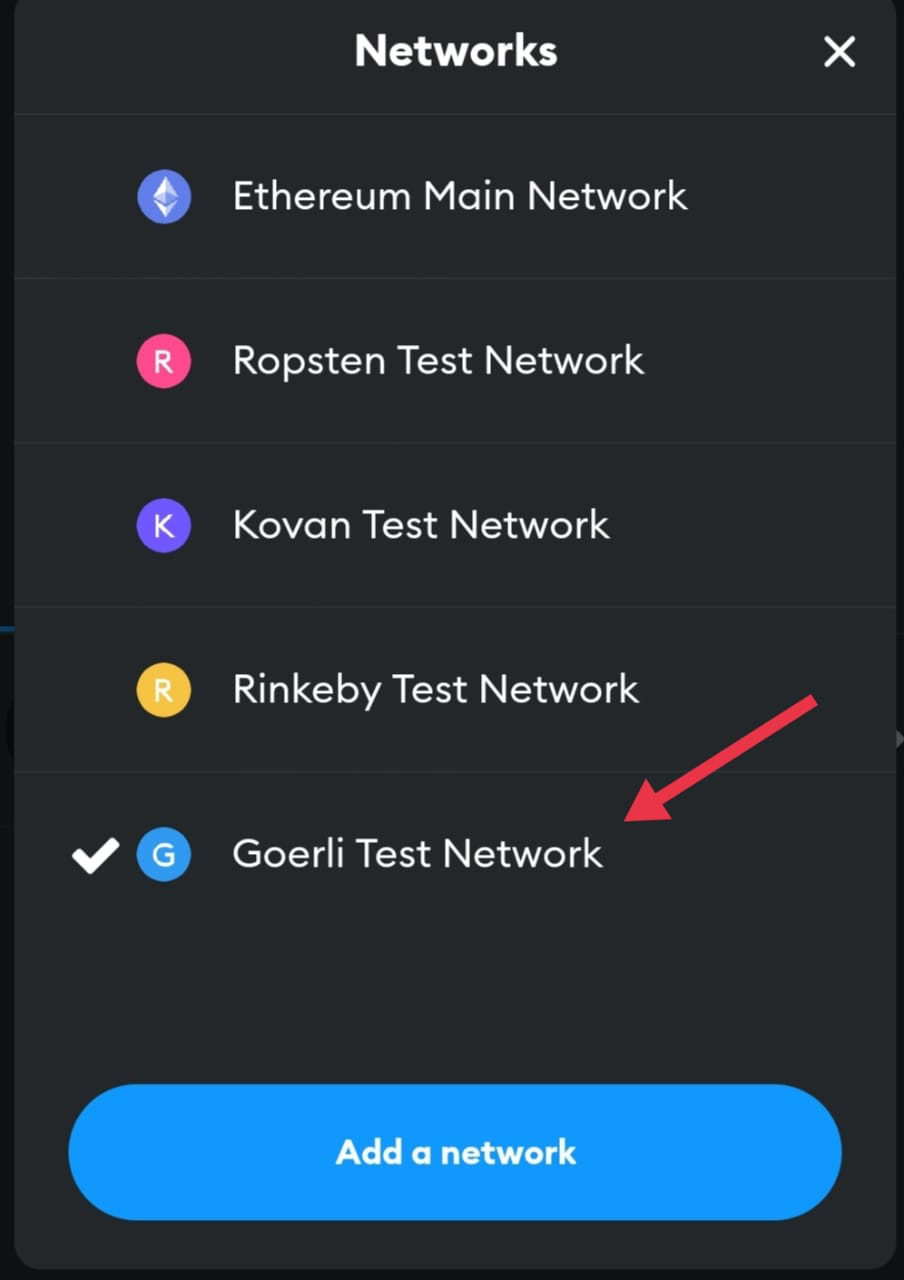
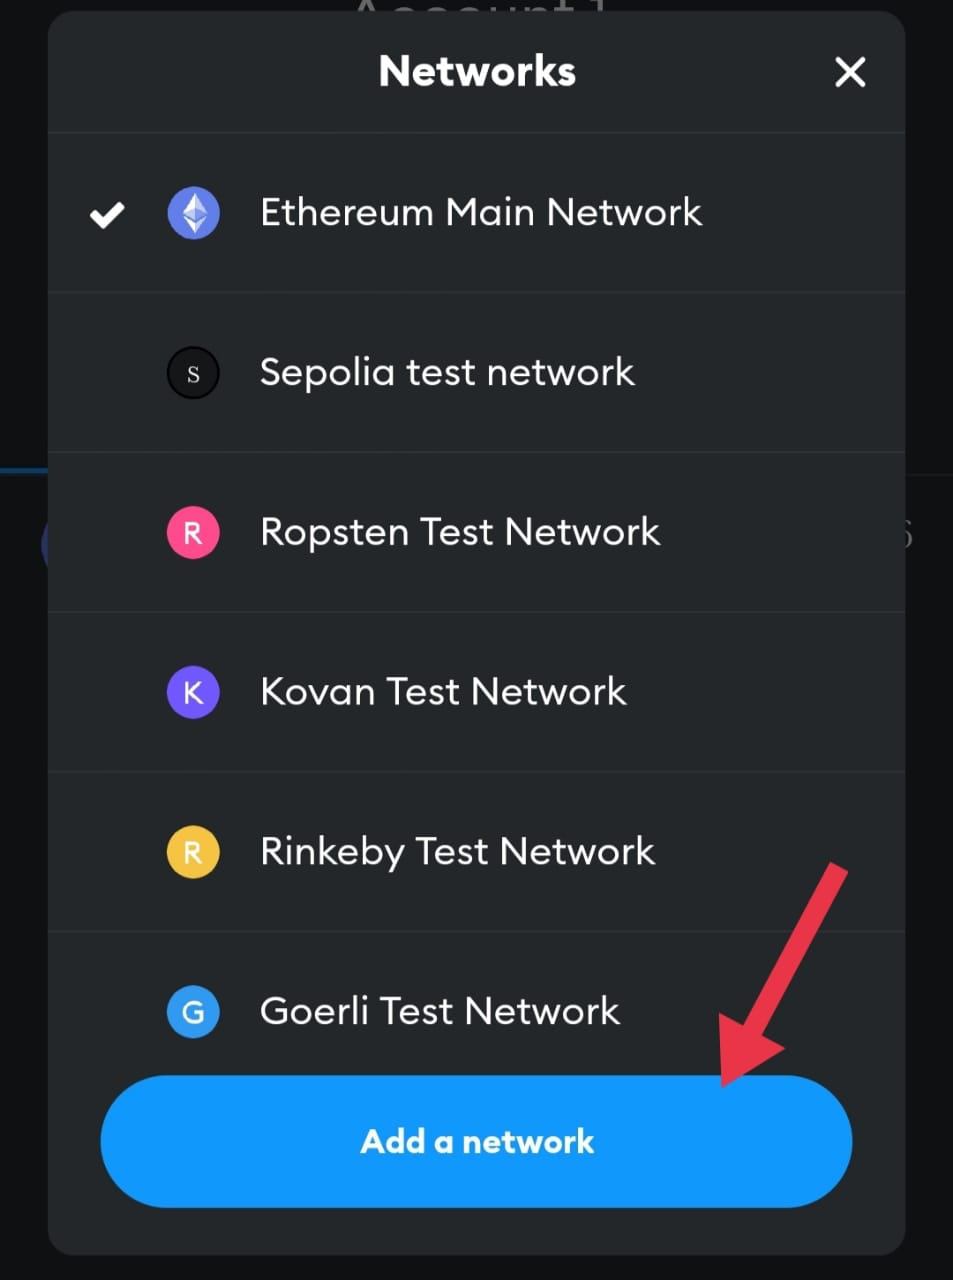
Updated Testnet

diff --git a/lib/view/authentication/smart_address_contract.dart b/lib/view/authentication/smart_address_contract.dart
@@ -106,7 +106,7 @@ class _SmartContractAddressState extends State<SmartContractAddress> {
                     ),
                     SizedBox(height: 1.h,),
                      const Text(
-                      "3. Please change the Ethereum Main Network to Goerli Test Network by click the option on the top",
+                      "3. Please change the Ethereum Main Network to Sepolia Test Network by click the option on the top and click Add Network",
                         textAlign: TextAlign.justify,
                         style: TextStyle(
                         fontWeight: FontWeight.w500,
@@ -120,9 +120,25 @@ class _SmartContractAddressState extends State<SmartContractAddress> {
                       width: 70.w,
                       scale: 2,               
                     ),
+                       SizedBox(height: 1.5.h,), 
+                      const SelectableText(
+                      "4. At the Custom Networks section, please fill this form : \n Network Name - Sepolia test network \n New RPC URL - https://sepolia.infura.io/v3/a16a56f42e774895b94db13a6342829e \n Chain ID - 11155111 \n Currency Symbol - SepoliaETH \n Block explorer URL - https://sepolia.etherscan.io/",
+                        
+                        style: TextStyle(
+                        fontWeight: FontWeight.w500,
+                        fontSize: 16,
+                        fontFamily: 'Poppins',
+                        ),
+                     ),
+                      SizedBox(height: 1.h,),  
+                      Image.asset(
+                      "assets/import_token_9.png",
+                      width: 70.w,
+                      scale: 2,               
+                    ),
                       SizedBox(height: 1.h,),  
                       const Text(
-                      "4. You can see the test network has successfully changed to Goerli.",
+                      "4. You can see the test network has successfully changed to Sepolia.",
                         textAlign: TextAlign.justify,
                         style: TextStyle(
                         fontWeight: FontWeight.w500,
@@ -130,6 +146,14 @@ class _SmartContractAddressState extends State<SmartContractAddress> {
                         fontFamily: 'Poppins',
                         ),
                      ),
+              
+             
+                      Image.asset(
+                      "assets/import_token_9.png",
+                      width: 50.w,
+                      scale: 2,
+                      height: 50.h,
+                    ),
                      SizedBox(height: 1.h,),  
                       Image.asset(
                       "assets/import_token_4.png",
@@ -168,7 +192,7 @@ class _SmartContractAddressState extends State<SmartContractAddress> {
                       mainAxisAlignment: MainAxisAlignment.center,
                       children: [
                      Text(
-                     "0xB5e5...90ec",
+                     "0xac60...b413",
                         textAlign: TextAlign.justify,
                         style: TextStyle(
                         fontWeight: FontWeight.bold,

diff --git a/lib/view/students/reward.dart b/lib/view/students/reward.dart
@@ -141,7 +141,7 @@ class _RewardTokenState extends State<RewardToken> {
                 child: Column(
                   children: [
                     Text(
-                    "Not Enough GoerliETH?",
+                    "Not Enough SepoliaETH?",
                     style: TextStyle(
                       fontFamily: "Poppins",
                       fontSize: 18,
@@ -149,7 +149,7 @@ class _RewardTokenState extends State<RewardToken> {
                       color: Colors.black,
                     ),
                    ),
-                      Row(
+                      Column(
                         mainAxisAlignment: MainAxisAlignment.center,
                          children: [ 
                             Text(
@@ -164,10 +164,33 @@ class _RewardTokenState extends State<RewardToken> {
                              SizedBox(width: deviceWidth(context) * 0.02,),
                               GestureDetector(
                              onTap: () {
-                               launch('https://goerli-faucet.pk910.de/');
+                               launch('https://sepolia-faucet.pk910.de/');
                                },
                               child: Text(
                               'https://goerli-faucet.pk910.de/',
+                               style: TextStyle(
+                                fontSize: 22,
+                                color: Constants().primaryColor,
+                                decoration: TextDecoration.underline,
+                               ),
+                            ),
+                           ),
+                          Text(
+                            "Or",
+                             textAlign: TextAlign.justify,
+                              style: TextStyle(
+                              fontWeight: FontWeight.w500,
+                              fontSize: 18,
+                              fontFamily: 'Poppins',                               
+                                ),
+                           ),
+                             SizedBox(width: deviceWidth(context) * 0.02,),
+                              GestureDetector(
+                             onTap: () {
+                               launch('https://sepoliafaucet.com/');
+                               },
+                              child: Text(
+                              'https://sepoliafaucet.com/',
                                style: TextStyle(
                                 fontSize: 22,
                                 color: Constants().primaryColor,

diff --git a/lib/view/students/book2_student.dart b/lib/view/students/book2_student.dart
@@ -540,7 +540,7 @@ class _Book2State extends State<Book2> {
   addBooking(String matricNo, String staffNo, int numberOfStudents, String date, String time,) async {
     final SharedPreferences _sharedPreferences = await SharedPreferences.getInstance();
     var responseBooking = await new Booking().addBooking(matricNo, staffNo, numberOfStudents, date, time);
-    
+
     if(responseBooking['success'] && responseBooking['message'] == "Slot Booked") {
       showMessage(context, "Slot Booked!", "The slot has been booked by student name ${responseBooking['student'][0]['studName']} with matric number ${responseBooking['student'][0]['matricNo']}", "OK");
       

diff --git a/lib/api_services/api_reward.dart b/lib/api_services/api_reward.dart
@@ -6,7 +6,7 @@ class Reward {
 
   //API get total token from metamask
 Future<BigInt> getTotalToken(String studentMetamaskAddress) async {
-  final client = Web3Client(Connection.INFURA_GOERLI_ENDPOINT, http.Client());
+  final client = Web3Client(Connection.INFURA_SEPOLIA_ENDPOINT, http.Client());
   final contract = DeployedContract(
     ContractAbi.fromJson(Connection.CONTRACT_ABI, 'UTHMToken'),
     EthereumAddress.fromHex(Connection.TOKEN_ADDRESS),

diff --git a/lib/constants/utils.dart b/lib/constants/utils.dart
@@ -1,7 +1,8 @@
 class Utils {
   //port from backend (node.js)
   
-  //static string baseURL = "http://localhost:5000";
-   static String baseURL = "http://192.168.1.12:5000";
+  //static string baseURL = "http://localhost:5000"; 
+  //static String baseURL = "http://192.168.1.12:5000";
+  static String baseURL = "http://192.168.1.108:5000";
 }
 
